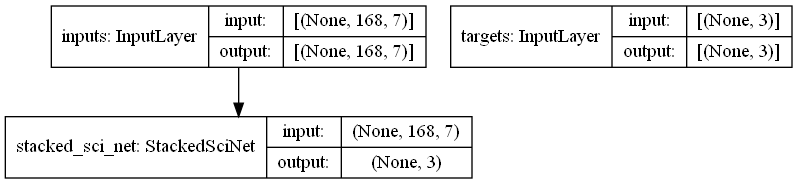
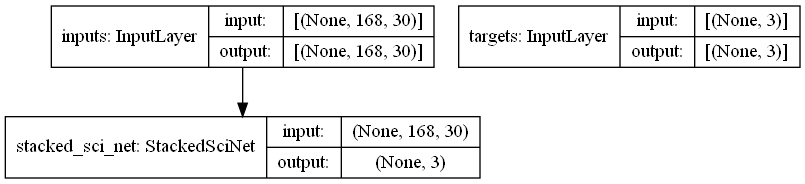
bug fixes and tuning

Changed region(s): [[0.0602, 0.0272, 0.9937, 0.3804], [0.0, 0.625, 0.6023, 0.9783], [0.271, 0.5435, 0.3312, 0.625]]

diff --git a/main.py b/main.py
@@ -21,7 +21,7 @@ def make_model(input_shape, output_shape):
     # model = tf.keras.Model(x, y)
     targets = tf.keras.Input(shape=(output_shape[1]), name='targets')
     predictions = StackedSciNet(horizon, stacks=K, levels=L, h=h, kernel_size=kernel_size,
-                                regularizer=(0.001, 0.01))(inputs, targets)
+                                regularizer=(l1, l2))(inputs, targets)
     model = tf.keras.Model(inputs=[inputs, targets], outputs=predictions)
 
     model.summary()
@@ -33,19 +33,20 @@ def make_model(input_shape, output_shape):
 
 
 # Parametres
-# data_filepath = 'crypto_data/Crypto-USD-2019-09-01-00-00.csv'
-# y_col = 'ETH/close'
-# index_col = 'time'
-data_filepath = 'ETDataset-main/ETT-small/ETTh1.csv'
-y_col = 'OT'
-index_col = 'date'
+data_filepath = 'crypto_data/Crypto-USD-2019-09-01-00-00.csv'
+y_col = 'ETH/close'
+index_col = 'time'
+# data_filepath = 'ETDataset-main/ETT-small/ETTh1.csv'
+# y_col = 'OT'
+# index_col = 'date'
 degree_of_differencing = 0
 look_back_window, horizon = 168, 3
-batch_size = 256
+batch_size = 64
 learning_rate = 9e-3
 h, kernel_size, L, K = 4, 5, 3, 1
-# strides = look_back_window + forecast_horizon  # unsure if any value lower than this would cause data leak
-strides = 1
+l1, l2 = 0.001, 0.1
+split_strides = look_back_window + horizon  # unsure if any value lower than this would cause data leak
+# split_strides = 1
 
 
 if __name__ == '__main__':
@@ -57,7 +58,7 @@ if __name__ == '__main__':
     test_data = data[int(0.8 * len(data)):]
 
     # Train model
-    preprocessor = ARIMAPreprocessor(y_col, look_back_window, horizon, strides, degree_of_differencing,
+    preprocessor = ARIMAPreprocessor(y_col, look_back_window, horizon, split_strides, degree_of_differencing,
                                      relative_diff=False, scaling='standard')
     X_train, y_train = preprocessor.fit_transform(train_data)
     X_val, y_val = preprocessor.transform(val_data)
@@ -67,7 +68,7 @@ if __name__ == '__main__':
     early_stopping = EarlyStopping(monitor='val_loss', patience=100, min_delta=0, verbose=1, restore_best_weights=True)
     history = model.fit({'inputs': X_train, 'targets': y_train},
                         validation_data={'inputs': X_val, 'targets': y_val},
-                        batch_size=batch_size, epochs=1, callbacks=[early_stopping])
+                        batch_size=batch_size, epochs=800, callbacks=[early_stopping])
 
     # Generate new id and create save directory
     existing_ids = [int(name) for name in os.listdir('saved-models/') if name.isnumeric()]

diff --git a/SCINet.py b/SCINet.py
@@ -28,22 +28,6 @@ class InnerConv1DBlock(tf.keras.layers.Layer):
         return x
 
 
-# class Exp(tf.keras.layers.Layer):
-#     def __init__(self, **kwargs):
-#         super(Exp, self).__init__(**kwargs)
-#
-#     def call(self, inputs):
-#         return tf.math.exp(inputs)
-#
-#
-# class Split(tf.keras.layers.Layer):
-#     def __init__(self, **kwargs):
-#         super(Split, self).__init__(**kwargs)
-#
-#     def call(self, inputs):
-#         return inputs[:, ::2], inputs[:, 1::2]
-
-
 class SciBlock(tf.keras.layers.Layer):
     def __init__(self, kernel_size: int, h: int, **kwargs):
         super(SciBlock, self).__init__(**kwargs)
@@ -97,7 +81,7 @@ class SciNet(tf.keras.layers.Layer):
         self.interleave = Interleave()
         self.flatten = tf.keras.layers.Flatten()
         self.dense = tf.keras.layers.Dense(horizon, kernel_regularizer=L1L2(0.001, 0.01))
-        # self.regularizer = tf.keras.layers.ActivityRegularization(l1=regularizer[0], l2=regularizer[1])
+        self.regularizer = tf.keras.layers.ActivityRegularization(l1=regularizer[0], l2=regularizer[1])
 
         # tree of sciblocks
         self.sciblocks = [SciBlock(kernel_size, h) for _ in range(2 ** (levels + 1) - 1)]
@@ -124,10 +108,8 @@ class SciNet(tf.keras.layers.Layer):
 
         x = self.flatten(x)
         x = self.dense(x)
-        # x = tf.reshape(x, (-1, x.shape[1], 1))
-        # outputs = tf.stack(outputs)
-        # x = tf.reshape(x, (-1, self.horizon, self.features))
-        # x = self.regularizer(x)
+        x = self.regularizer(x)
+
         return x
 
 
